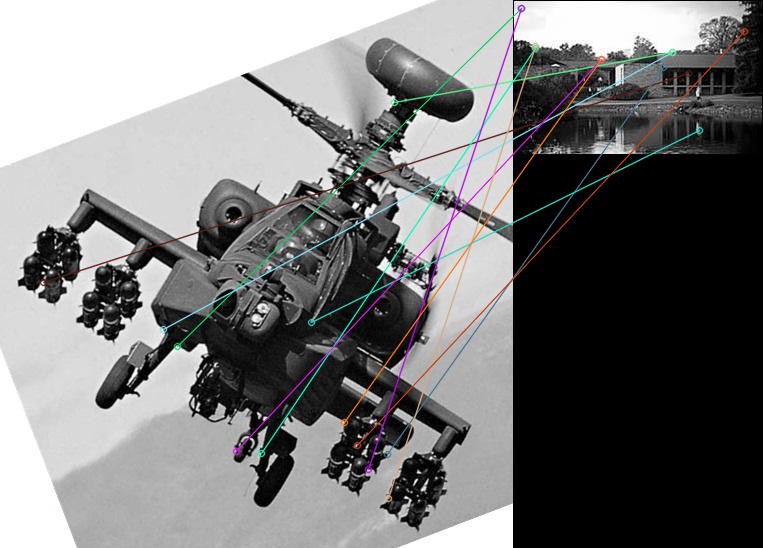
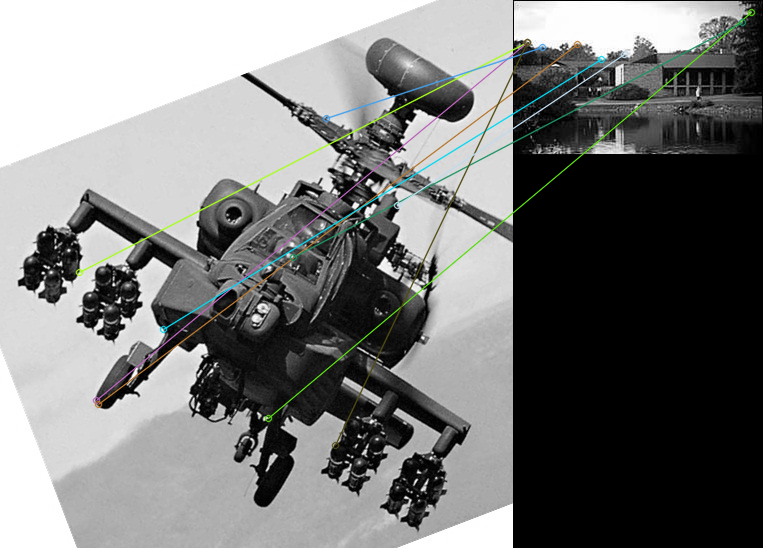
fix: refine code & add report images

diff --git a/lab-2/codes/sift.py b/lab-2/codes/sift.py
@@ -5,6 +5,7 @@ from typing import List
 import logging
 import sys
 from functools import cmp_to_key
+import debug
 
 NUM_REGIONS = 4
 REGION_SIZE = 4
@@ -24,7 +25,7 @@ class Octave:
             for j in range(1, w - 1):
                 self.mag[i][j] = ((img[i + 1][j] - img[i - 1][j]) ** 2 + (img[i][j + 1] - img[i][j - 1]) ** 2) ** 0.5
                 self.angle[i][j] = (360 - math.atan2(img[i, j + 1] - img[i, j - 1], img[i + 1, j] - img[i - 1, j]) * 180 / math.pi) % 360
-        
+     
 class SIFT:
     def __init__(self):
         self.octaves: List[Octave] = []
@@ -34,7 +35,7 @@ class SIFT:
             img,
             maxCorners=1000,
             qualityLevel=0.01,
-            minDistance=5,
+            minDistance=10,
             blockSize=2,
             useHarrisDetector=True,
             k=0.01
@@ -49,7 +50,6 @@ class SIFT:
     def compute_kp_orient(self, kp: List[cv2.KeyPoint]):
         more_kps = []
         for p in kp:
-            p.octave = 0
             octave = self.octaves[p.octave]
             img, mag, angle = octave.img, octave.mag, octave.angle
             h, w = img.shape
@@ -59,6 +59,7 @@ class SIFT:
             rad = int(sigma * 3)
             px, py = int(p.pt[0] * scale), int(p.pt[1] * scale)
             
+            # fill bins by orientation
             bins = [0] * 36
             for i in range(max(1, py - rad), min(py + rad + 1, h - 1)):
                 for j in range(max(1, px - rad), min(px + rad + 1, w - 1)):
@@ -66,15 +67,22 @@ class SIFT:
                     a = angle[i][j]
                     bin_id = math.floor(a / 10)
                     bins[bin_id] += m * self.gaussian_mask(sigma, j - px, i - py)
-                    
+            
+            # find peaks and interpolate accurate orientation
+            bin_max = max(bins)
+            peaks = np.where(np.logical_and(bins > np.roll(bins, 1), bins > np.roll(bins, -1)))[0]
+            for peak_index in peaks:
+                val = bins[peak_index]
+                if val >= 0.8 * bin_max and val < bin_max:
+                    val_left = bins[(peak_index - 1) % 36]
+                    val_right = bins[(peak_index + 1) % 36]
+                    intp_peak_index = (peak_index + 0.5 * (val_left - val_right) / (val_left - 2 * val + val_right)) % 36
+                    more_kps.append(cv2.KeyPoint(*p.pt, p.size, int(intp_peak_index * 10 + 5)))
+            
             max_bin_id = np.argmax(bins)
             p.angle = int(max_bin_id * 10 + 5)
             
-            bin_max = bins[max_bin_id]
-            bins[max_bin_id] = -1
-            second_max_bin_id = np.argmax(bins)
-            if bins[second_max_bin_id] > bin_max * 0.8:
-                more_kps.append(cv2.KeyPoint(p.pt[0], p.pt[1], p.size, int(second_max_bin_id * 10 + 5)))
+            logging.debug(f"Keypoint ({p.pt[0]}, {p.pt[1]}) angle {p.angle} determined with radius {rad} and sigma {sigma}.")
                 
         kp.extend(more_kps)
         
@@ -122,7 +130,7 @@ class SIFT:
         des = []
         
         for p in kp:
-            desc = np.zeros((NUM_REGIONS, NUM_REGIONS, NUM_BINS))
+            desc = np.zeros((NUM_REGIONS + 2, NUM_REGIONS + 2, NUM_BINS)) # 2 was added so that we can deal with the borders more easily
             
             octave = self.octaves[p.octave]
             scale = 2 ** -p.octave
@@ -143,10 +151,10 @@ class SIFT:
                     y_rot = xx * sin_orient + yy * cos_orient
                     x_rot = xx * cos_orient - yy * sin_orient
                     
-                    bin_y = math.floor(y_rot / sub_width) + 2
-                    bin_x = math.floor(x_rot / sub_width) + 2
+                    bin_y = y_rot / sub_width + 1.5
+                    bin_x = x_rot / sub_width + 1.5
                     
-                    if bin_x < 0 or bin_x > 3 or bin_y < 0 or bin_y > 3:
+                    if bin_x <= -1 or bin_x >= 4 or bin_y <= -1 or bin_y >= 4:
                         continue
                     
                     y_img = y + yy
@@ -158,11 +166,40 @@ class SIFT:
                     m = self.get_val_by_interpolation(mag, x_img, y_img)
                     a = self.get_val_by_interpolation(angle, x_img, y_img)
                     
-                    bin_angle = int((a - p.angle) / 360 * NUM_BINS) % NUM_BINS
+                    weight = m * self.gaussian_mask(0.75, y_rot / sub_width, x_rot / sub_width) # 3 * sigma = 2.25
 
-                    weight = m * self.gaussian_mask(0.75, y_rot / sub_width, x_rot / sub_width)
-                    desc[bin_y, bin_x, bin_angle] += weight
+                    bin_angle = ((a - p.angle) / 360 * NUM_BINS) % NUM_BINS
+                    
+                    # Reference: https://github.com/rmislam/PythonSIFT
+                    bin_y_floor, bin_x_floor, bin_angle_floor = np.floor([bin_y, bin_x, bin_angle]).astype(int)
+                    row_fraction, col_fraction, orientation_fraction = bin_y - bin_y_floor, bin_x - bin_x_floor, bin_angle - bin_angle_floor
+                    bin_angle_floor = bin_angle_floor % NUM_BINS
 
+                    c1 = weight * row_fraction
+                    c0 = weight * (1 - row_fraction)
+                    c11 = c1 * col_fraction
+                    c10 = c1 * (1 - col_fraction)
+                    c01 = c0 * col_fraction
+                    c00 = c0 * (1 - col_fraction)
+                    c111 = c11 * orientation_fraction
+                    c110 = c11 * (1 - orientation_fraction)
+                    c101 = c10 * orientation_fraction
+                    c100 = c10 * (1 - orientation_fraction)
+                    c011 = c01 * orientation_fraction
+                    c010 = c01 * (1 - orientation_fraction)
+                    c001 = c00 * orientation_fraction
+                    c000 = c00 * (1 - orientation_fraction)
+
+                    desc[bin_y_floor + 1, bin_x_floor + 1, bin_angle_floor] += c000
+                    desc[bin_y_floor + 1, bin_x_floor + 1, (bin_angle_floor + 1) % 8] += c001
+                    desc[bin_y_floor + 1, bin_x_floor + 2, bin_angle_floor] += c010
+                    desc[bin_y_floor + 1, bin_x_floor + 2, (bin_angle_floor + 1) % 8] += c011
+                    desc[bin_y_floor + 2, bin_x_floor + 1, bin_angle_floor] += c100
+                    desc[bin_y_floor + 2, bin_x_floor + 1, (bin_angle_floor + 1) % 8] += c101
+                    desc[bin_y_floor + 2, bin_x_floor + 2, bin_angle_floor] += c110
+                    desc[bin_y_floor + 2, bin_x_floor + 2, (bin_angle_floor + 1) % 8] += c111
+
+            desc = desc[1:-1, 1:-1, :]
             desc = desc.flatten()
             threshold = 0.2 * np.linalg.norm(desc)
             desc[desc > threshold] = threshold
@@ -177,6 +214,8 @@ class SIFT:
         self.__init__()
         logging.basicConfig(handlers=[logging.StreamHandler(sys.stdout)], level=logging.INFO)
         
+        PRINT = base_img.shape[0] == 548
+        
         self.octaves.append(Octave(base_img))
         logging.info(f'Initialized SIFT class with base image of size {base_img.shape}.')
         
@@ -185,6 +224,8 @@ class SIFT:
             last_img = self.octaves[i].img
             img = cv2.resize(last_img, (int(last_img.shape[1] / 2), int(last_img.shape[0] / 2))) # add Gaussian blur 1.6?
             self.octaves.append(Octave(img))
+            if PRINT:
+                debug.save_doc_image(img, f"octave-{i+1}")
             logging.info(f'Added octave No.{i + 1} from image of size {img.shape}.')
         
         all_kps = []
@@ -192,6 +233,8 @@ class SIFT:
         for octave_index, octave in enumerate(self.octaves):
             img = octave.img
             kps: List[cv2.KeyPoint] = self.get_kp(img)
+            if PRINT:
+                debug.save_doc_image(cv2.drawKeypoints(img, kps, img, flags=2), f"keypoint-octave-{octave_index}")
             logging.info(f'Detected {len(kps)} keypoints from octave No.{octave_index}.')
             for kp in kps:
                 kp.size = 2 ** (octave_index + 1)
@@ -201,6 +244,12 @@ class SIFT:
         
         self.compute_kp_orient(all_kps)
         all_kps = self.remove_duplicate_kp(all_kps)
+        
+        if PRINT:
+            print_kps = all_kps.copy()
+            for p in print_kps:
+                p.size *= 4
+            debug.save_doc_image(cv2.drawKeypoints(base_img, print_kps, base_img, flags=4), f"keypoint-all")
         
         des = self.get_des(all_kps)
         

diff --git a/lab-2/codes/img_io.py b/lab-2/codes/img_io.py
@@ -1,11 +1,5 @@
 import cv2
 
-def load_image(path: str):
-    img = cv2.imread(path)
-    if img is None:
-        raise FileNotFoundError(f"Failed to load image: {path}")
-    return img
-
 def load_dataset_and_target(
     dataset_path: str = 'images/dataset/',
     dataset_names: list[str] = ['1.jpg', '2.jpg', '3.jpg', '4.jpg', '5.jpg'],
@@ -28,7 +22,18 @@ def save_output(
     for _, img in enumerate(imgs):
         path = output_path + f"{_ + 1}"
         if suffix:
-            path += "-" + suffix
-        path += ".png"
+            path += '-' + suffix
+        path += '.png'
         
         cv2.imwrite(path, img)
+        
+def save_single_image(
+    img: cv2.typing.MatLike,
+    name: str,
+    path: str
+):
+    
+    if not name or not path:
+        return
+    
+    cv2.imwrite(path + name + '.png', img)

diff --git a/lab-2/codes/lab2.py b/lab-2/codes/lab2.py
@@ -11,8 +11,6 @@ def match(sift, dataset, target):
         matches = bf.knnMatch(des_target, des, k=2)
         good_matches = [m for m, n in matches if m.distance < 0.7 * n.distance]
         matched_img = cv2.drawMatches(target, kp_target, img, kp, good_matches, img, flags=2)
-        # cv2.imshow('1', matched_img)
-        # cv2.waitKey(0)
         result.append(matched_img)
     return result
 

diff --git a/lab-2/codes/debug.py b/lab-2/codes/debug.py
@@ -1,0 +1,8 @@
+import cv2
+import img_io as iio
+
+def print_keypoint(kp: cv2.KeyPoint):
+    print(f"Angle: {kp.angle}, Size: {kp.size}, Octave: {kp.octave}.")
+    
+def save_doc_image(img: cv2.typing.MatLike, name: str):
+    iio.save_single_image(img, name, path='../doc/images/')
